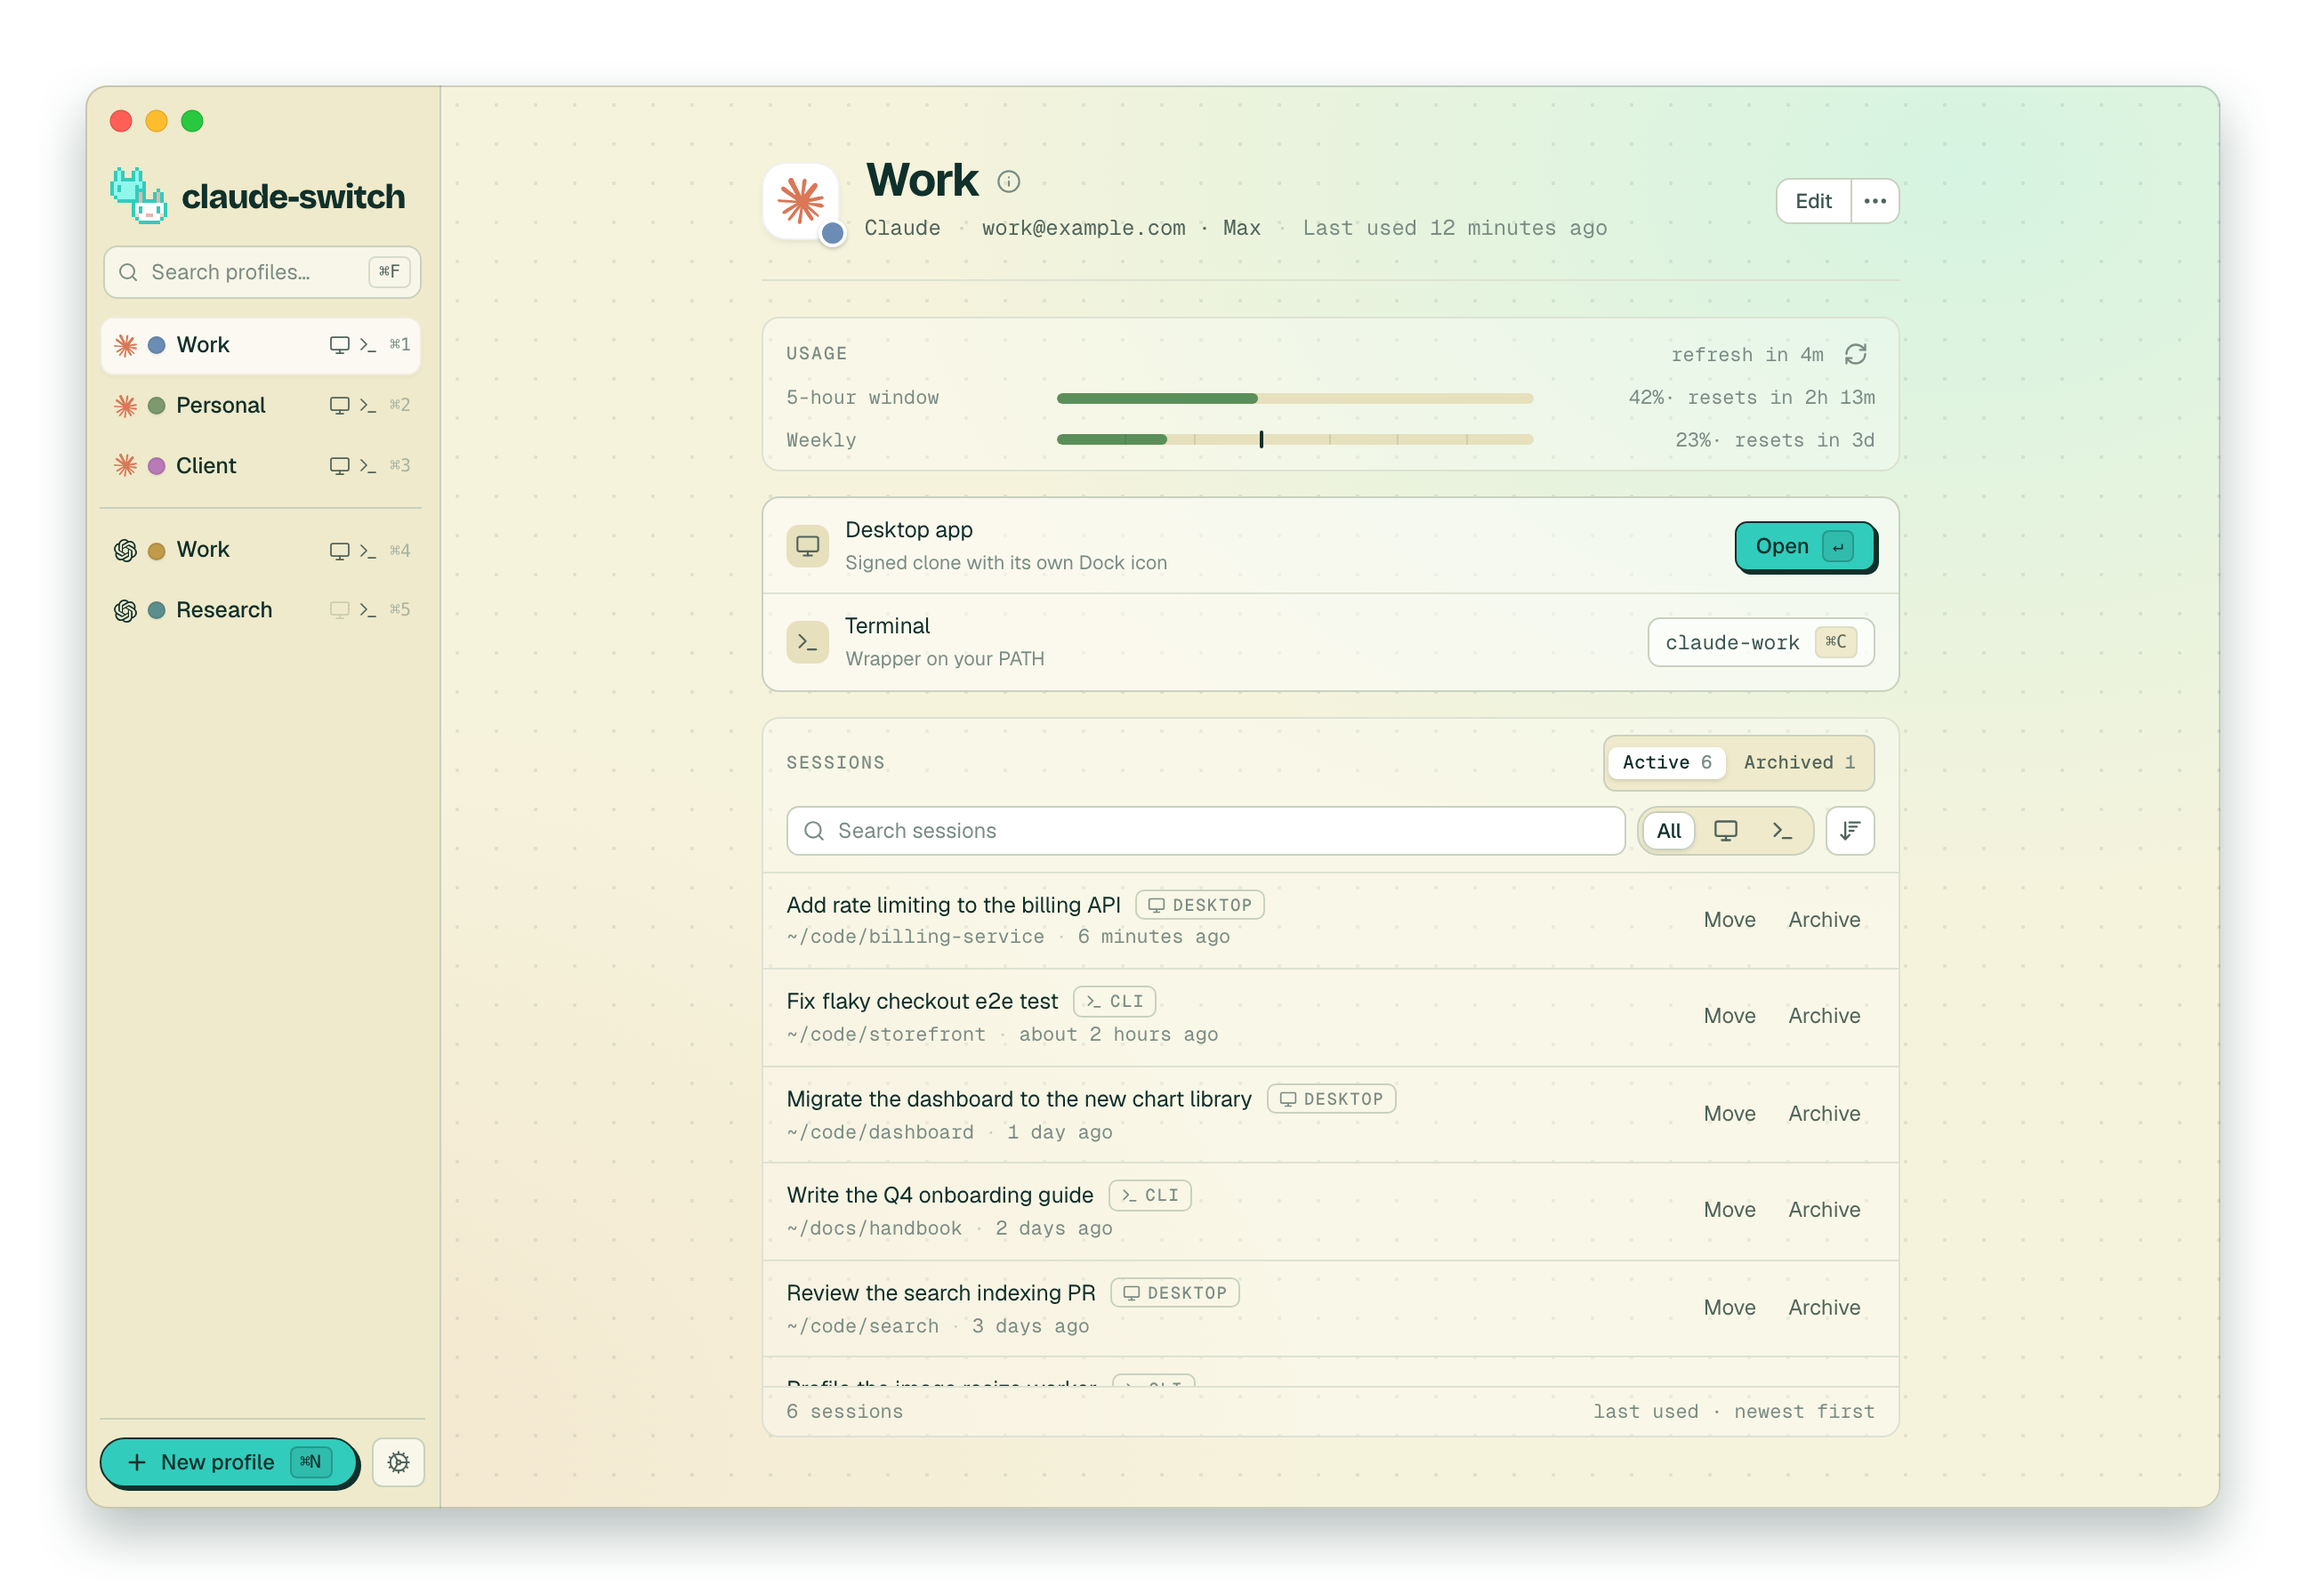
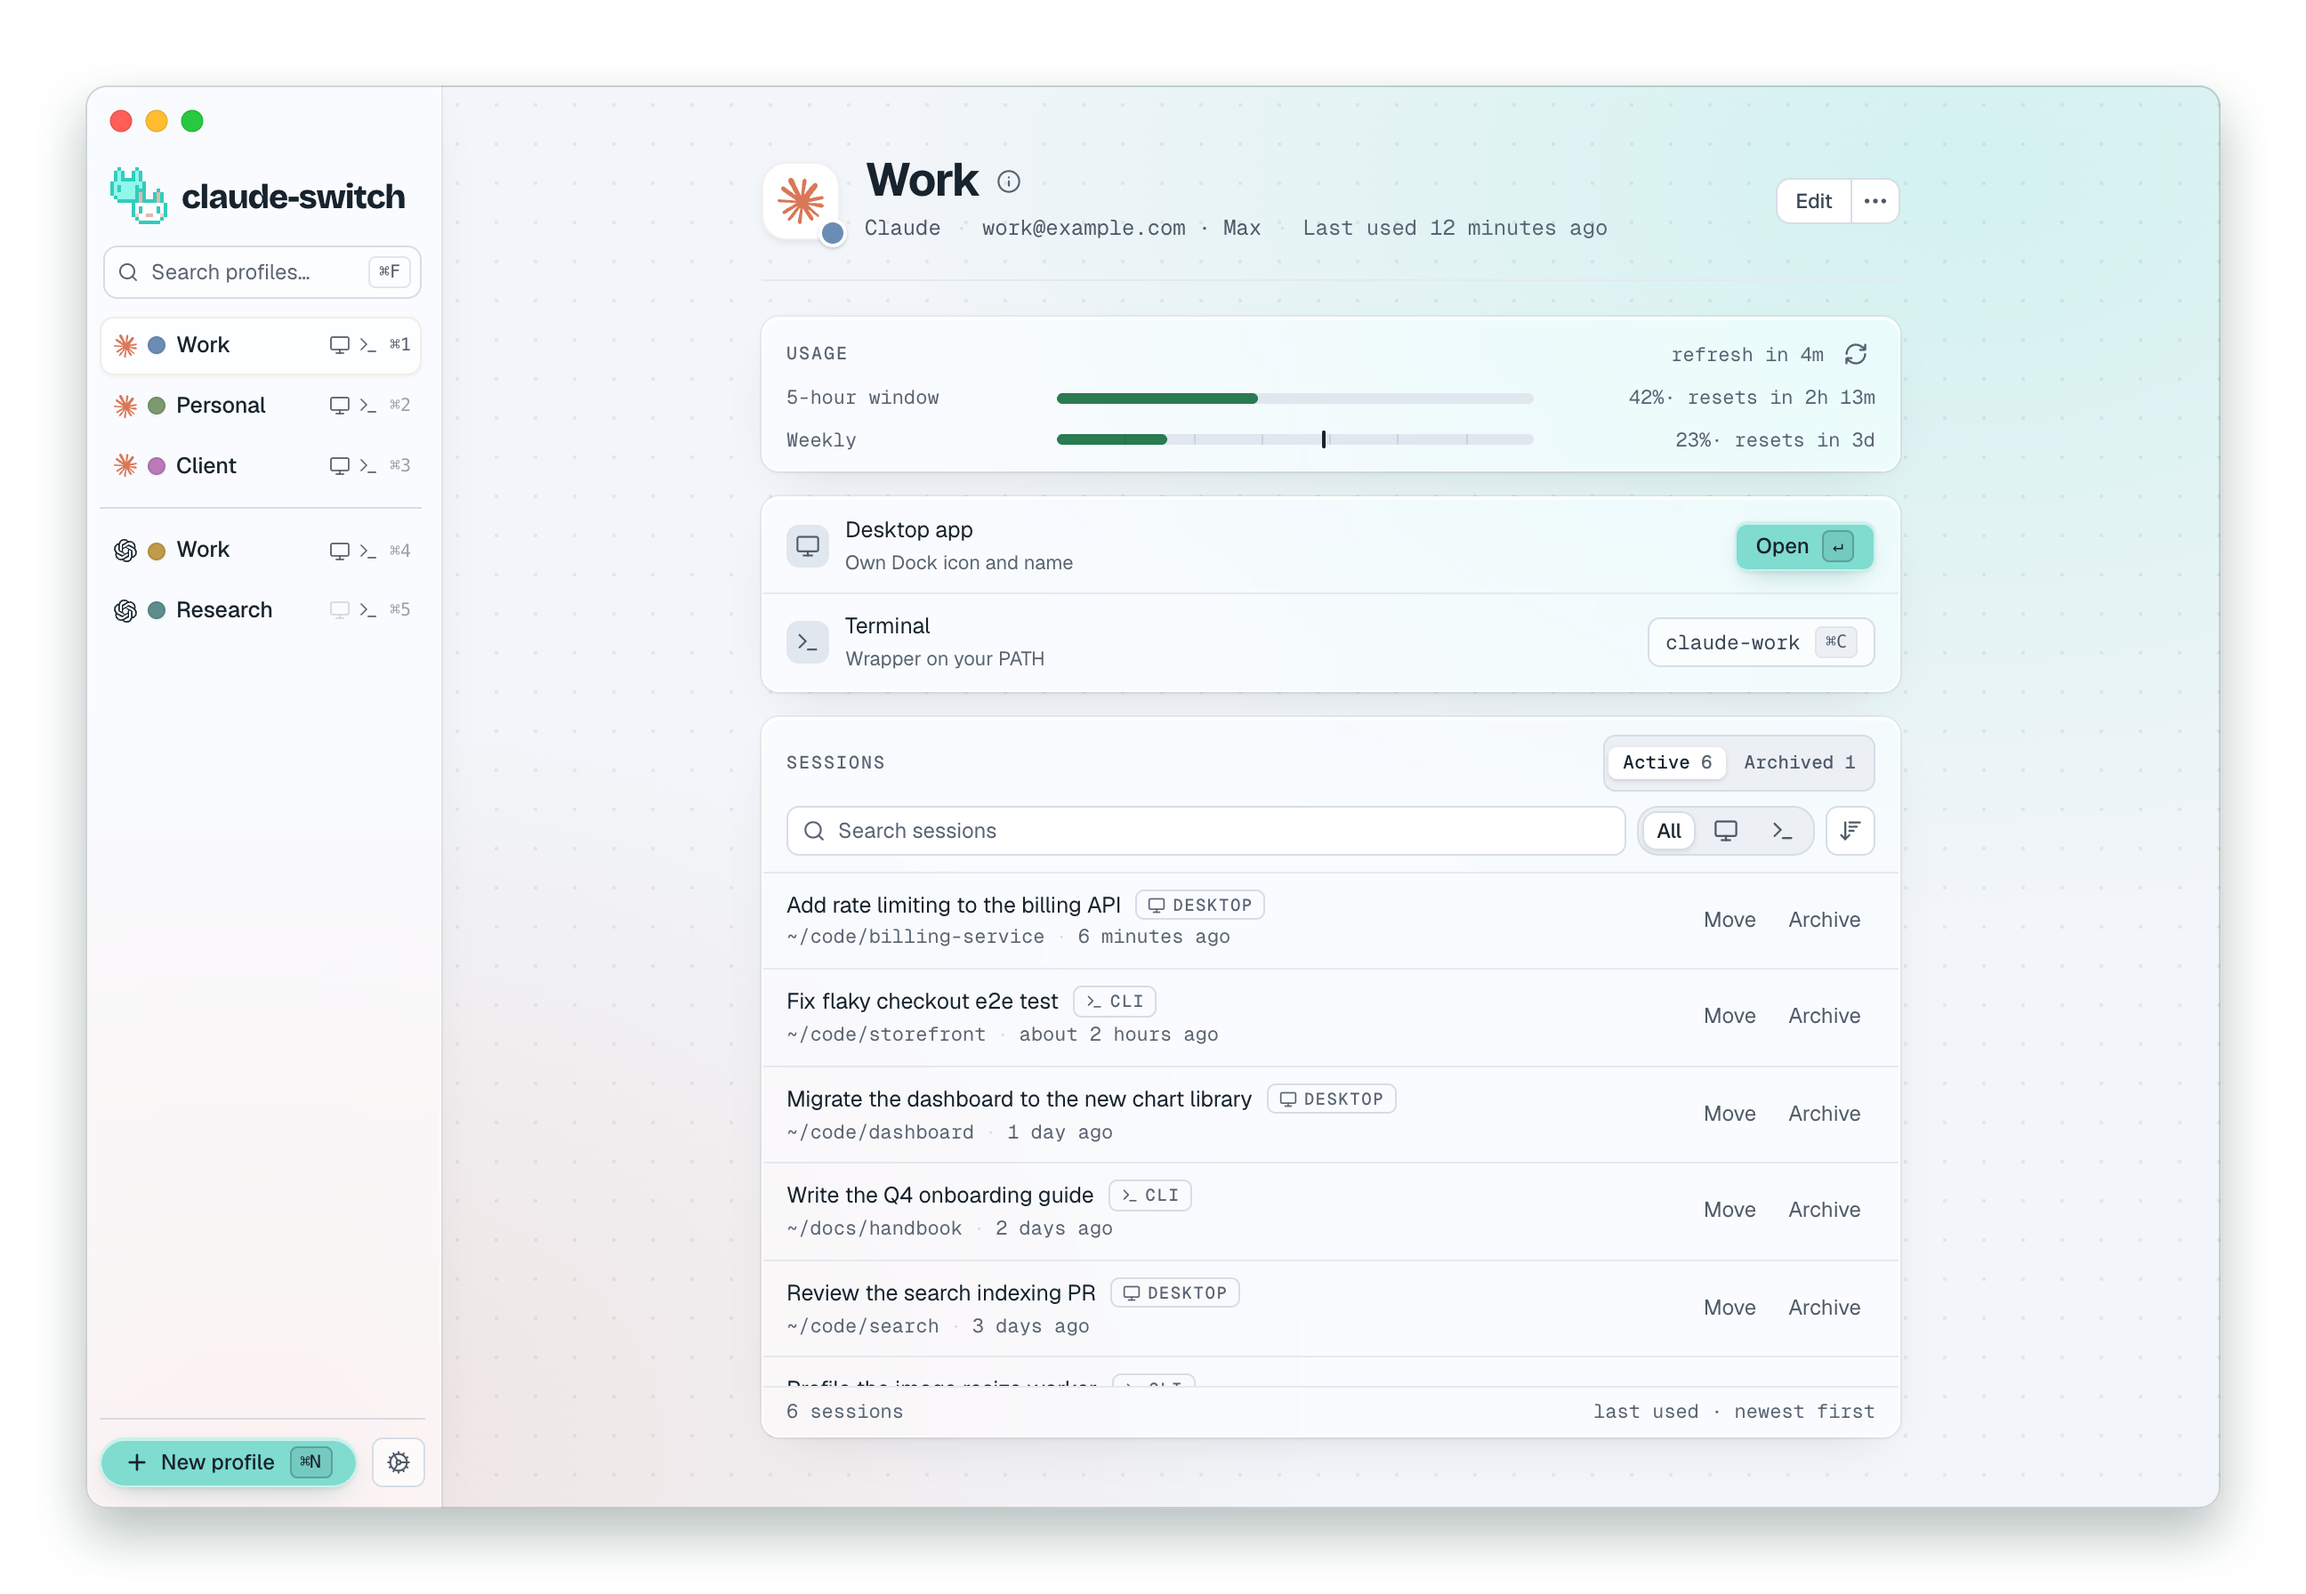
feat(landing): follow the Liquid Glass retone
The landing keeps the app's new pale, cool light palette, so the parts
that still carried the old cream now follow it. The app screenshots are
re-shot from the Liquid Glass app in both themes, with the same demo
scene and the same frame (window, shadow, rim, traffic lights) as
before. The light theme-color is the new canvas #f2f5f9. The light dot
grid takes its colour from ink instead of the old green-ink literal,
which looks the same.

diff --git a/apps/landing/src/styles/global.css b/apps/landing/src/styles/global.css
@@ -23,11 +23,11 @@ html, body {
   -webkit-font-smoothing: antialiased;
 }
 
-/* shizue's faint dot grid on the cream canvas (../shizue site/index.html). */
+/* shizue's faint dot grid on the canvas (../shizue site/index.html). */
 body {
   font-size: 15px;
   line-height: 1.6;
-  background-image: radial-gradient(rgba(16, 48, 43, 0.08) 1.2px, transparent 1.3px);
+  background-image: radial-gradient(color-mix(in oklab, var(--color-ink) 8%, transparent) 1.2px, transparent 1.3px);
   background-size: 22px 22px;
 }
 :root[data-theme="dark"] body {
